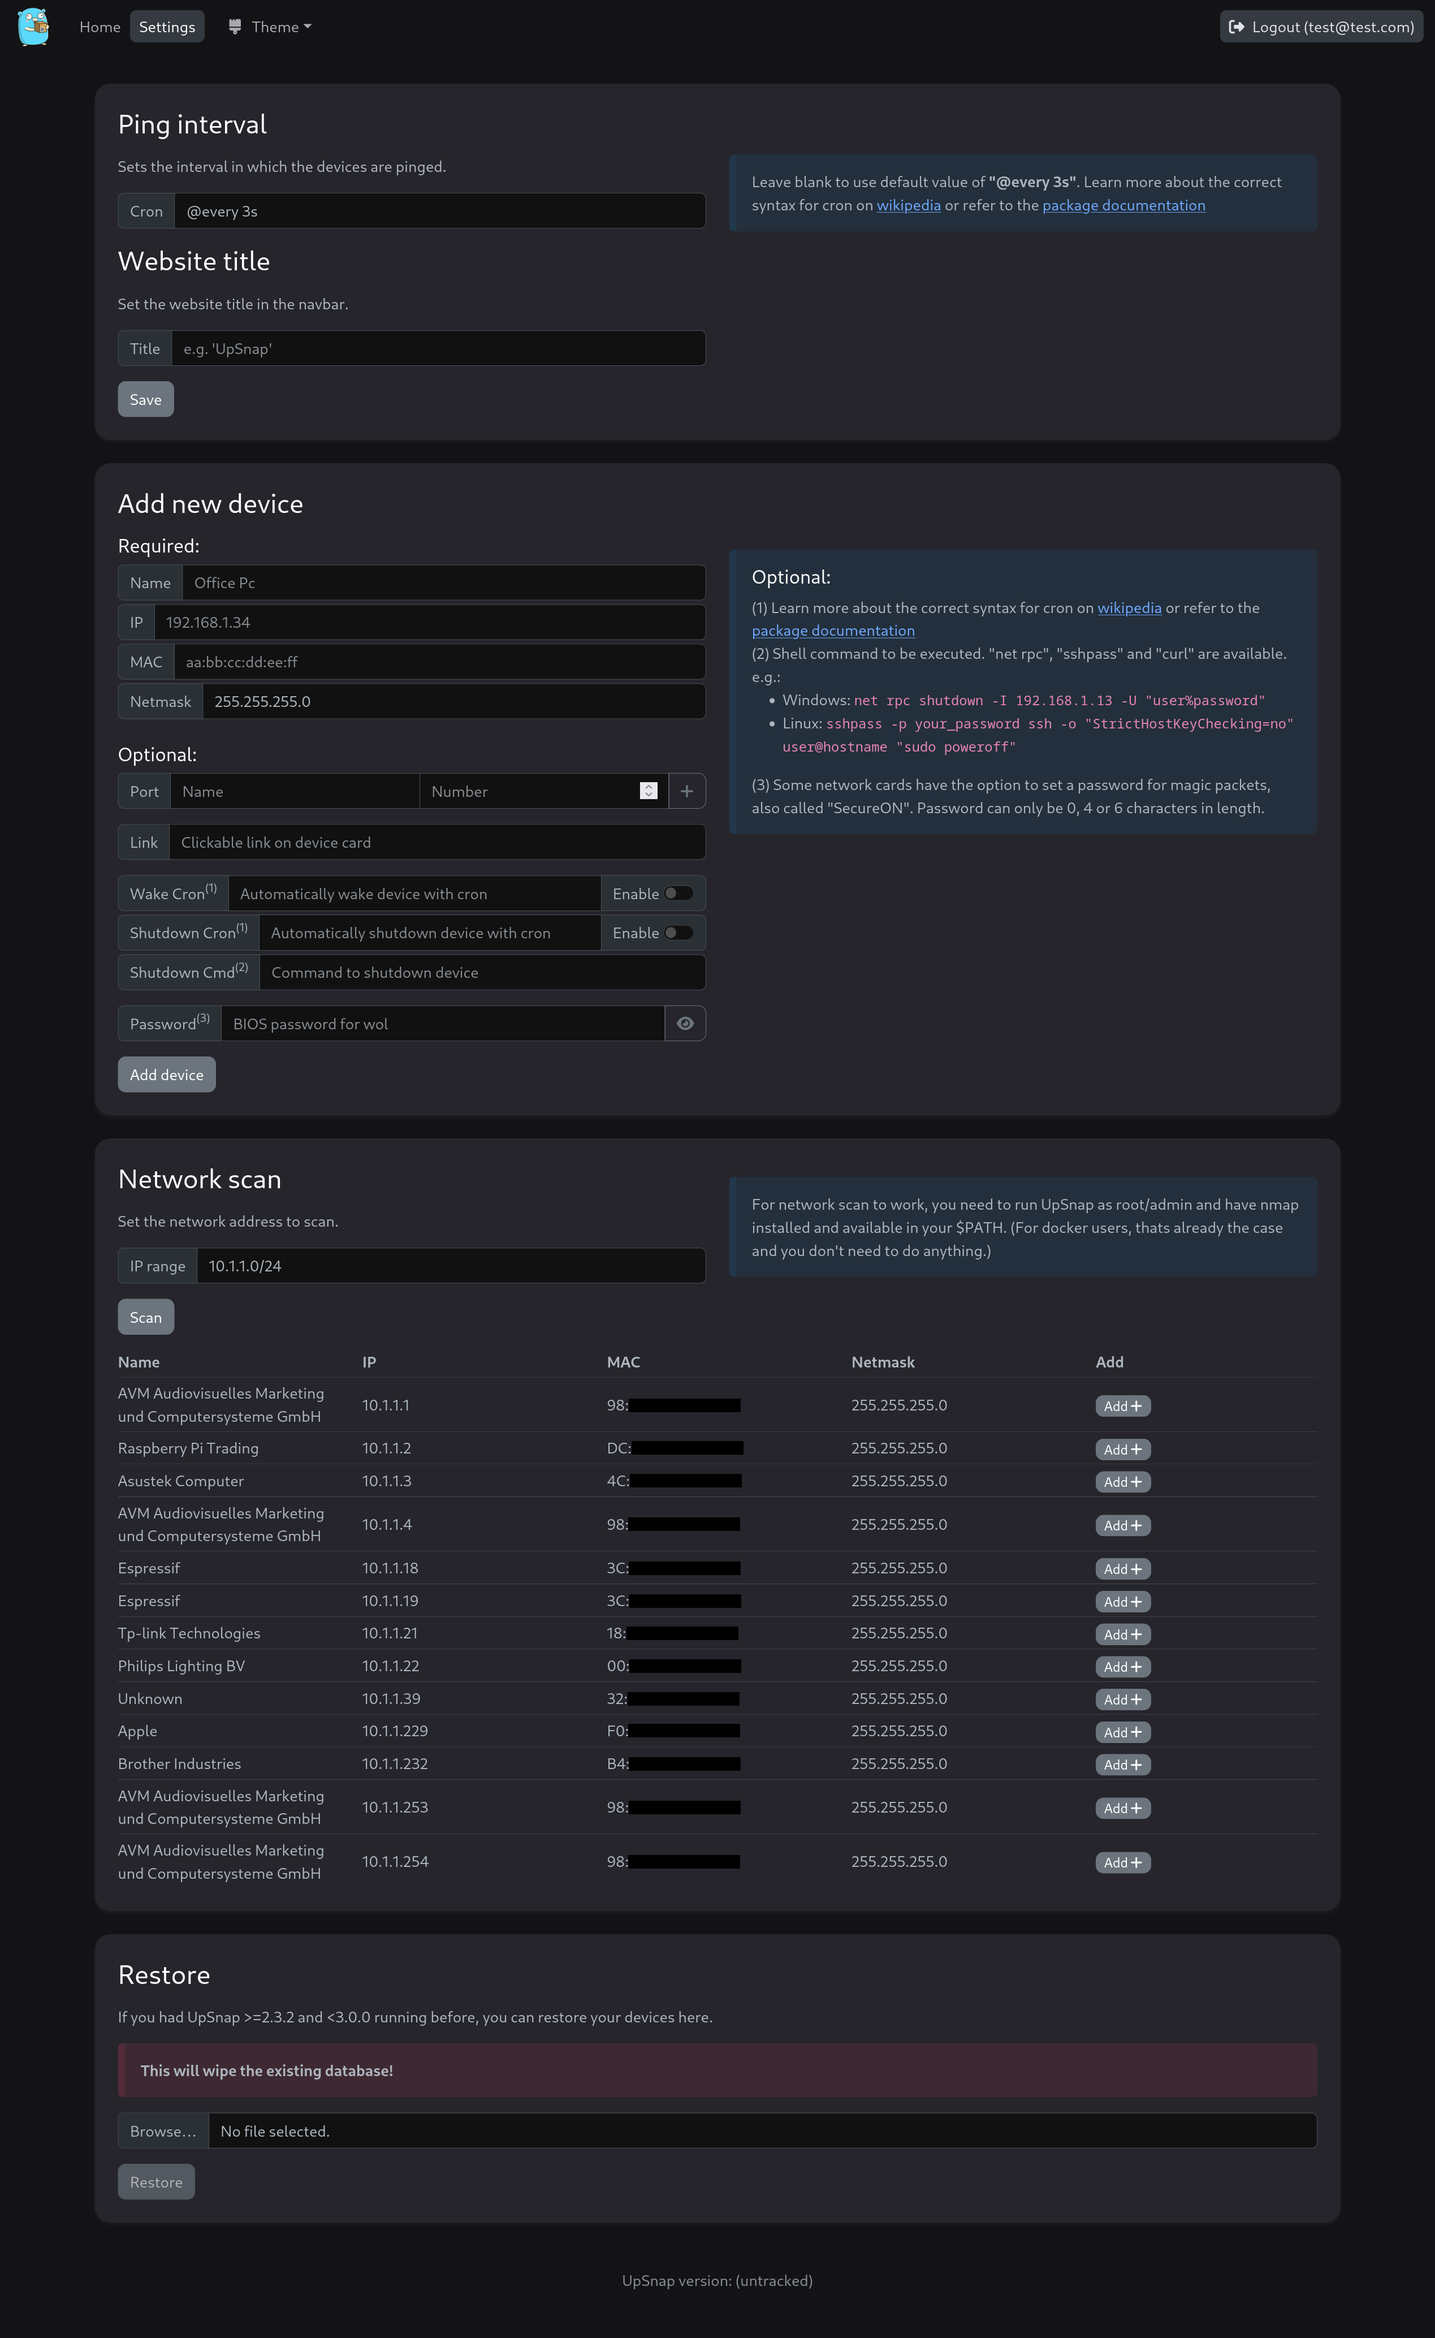
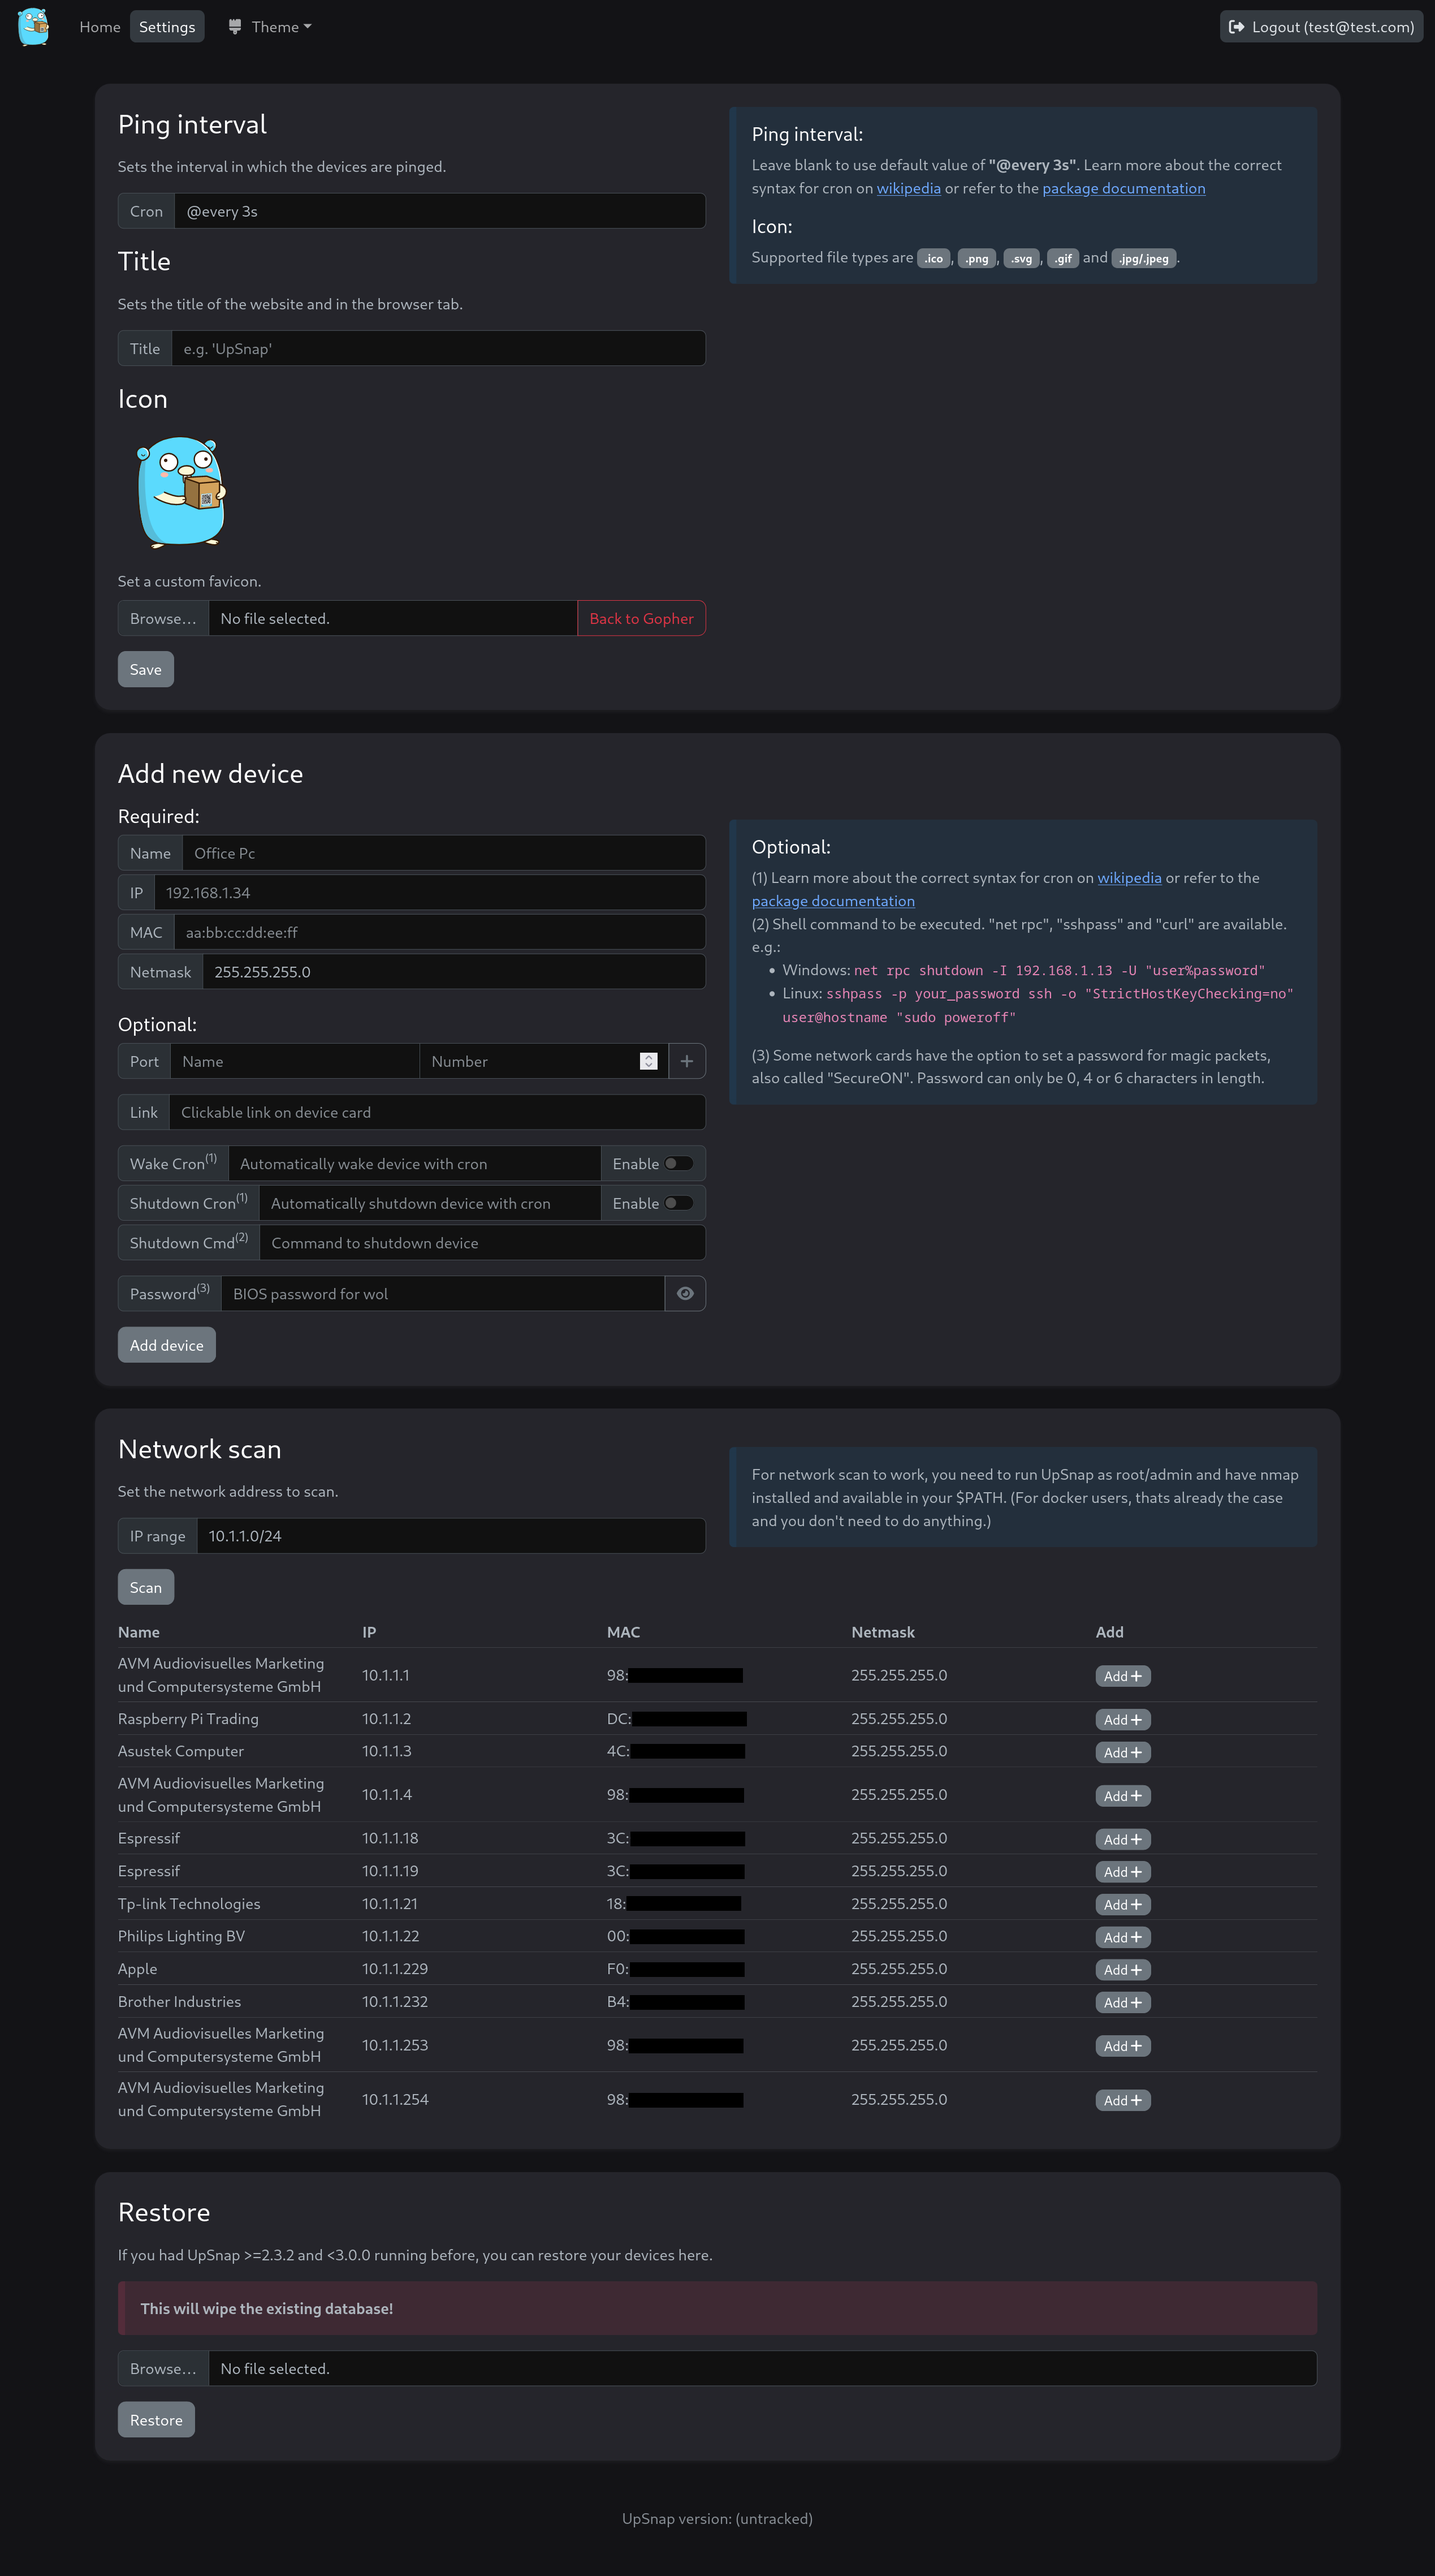
update callout and screenshots

diff --git a/frontend/src/routes/settings/+page.svelte b/frontend/src/routes/settings/+page.svelte
@@ -238,7 +238,7 @@
                         />
                     </div>
                     <h3 class="my-3">Title</h3>
-                    <p>Set the website title in the navbar.</p>
+                    <p>Sets the title of the website and in the browser tab.</p>
                     <div class="input-group mb-3">
                         <span class="input-group-text" id="website-title">Title</span>
                         <input
@@ -258,9 +258,7 @@
                         bind:this={iconPreview}
                     />
                     <div class="mb-3">
-                        <label for="iconInput" class="form-label"
-                            >Set a custom favicon (.ico, .png, .svg, .jpg/.jpeg).</label
-                        >
+                        <label for="iconInput" class="form-label">Set a custom favicon.</label>
                         <div class="input-group">
                             <input
                                 class="form-control"
@@ -282,7 +280,8 @@
                 </div>
                 <div class="col-md-6">
                     <div class="callout callout-info m-0">
-                        <p class="m-0">
+                        <h5>Ping interval:</h5>
+                        <p>
                             Leave blank to use default value of <span class="fw-bold"
                                 >"@every 3s"</span
                             >. Learn more about the correct syntax for cron on
@@ -298,6 +297,15 @@
                                 href="https://pkg.go.dev/github.com/robfig/cron"
                                 >package documentation</a
                             >
+                        </p>
+                        <h5>Icon:</h5>
+                        <p class="m-0">
+                            Supported file types are
+                            <span class="badge text-bg-secondary">.ico</span>,
+                            <span class="badge text-bg-secondary">.png</span>,
+                            <span class="badge text-bg-secondary">.svg</span>,
+                            <span class="badge text-bg-secondary">.gif</span> and
+                            <span class="badge text-bg-secondary">.jpg/.jpeg</span>.
                         </p>
                     </div>
                 </div>
